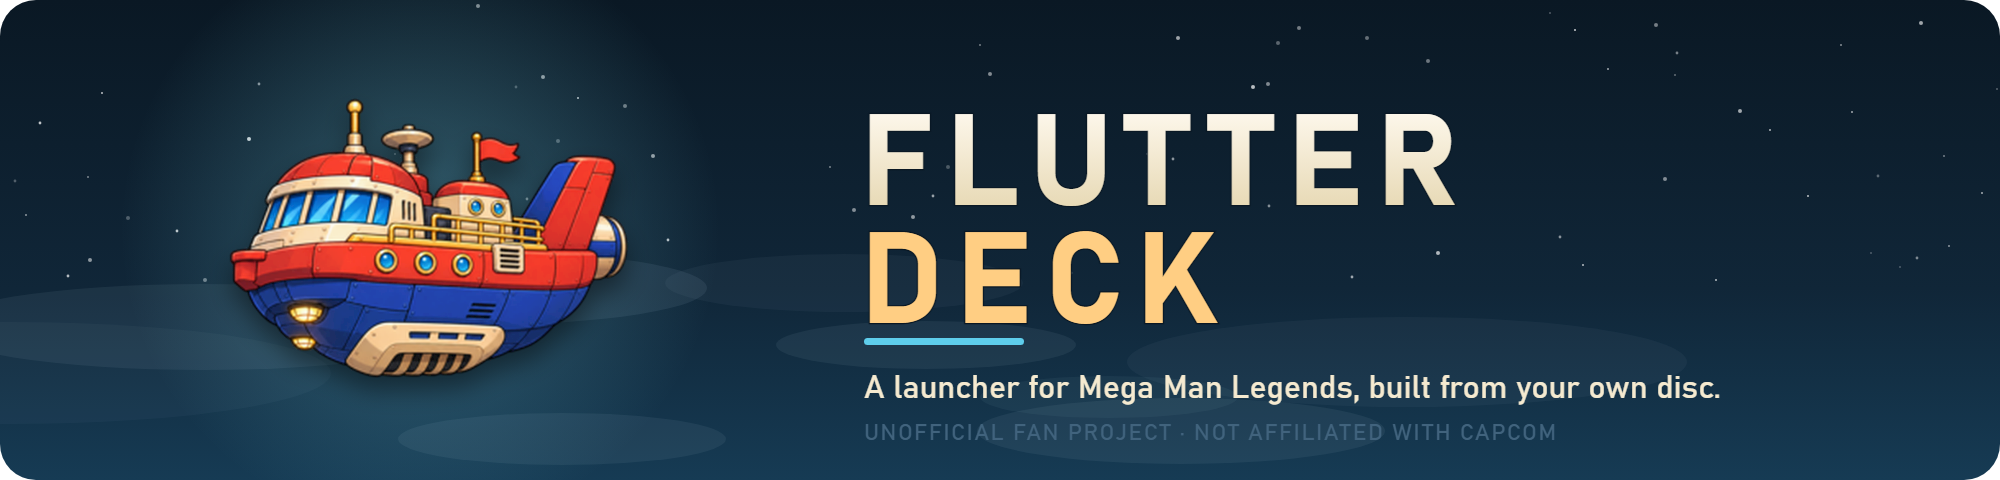
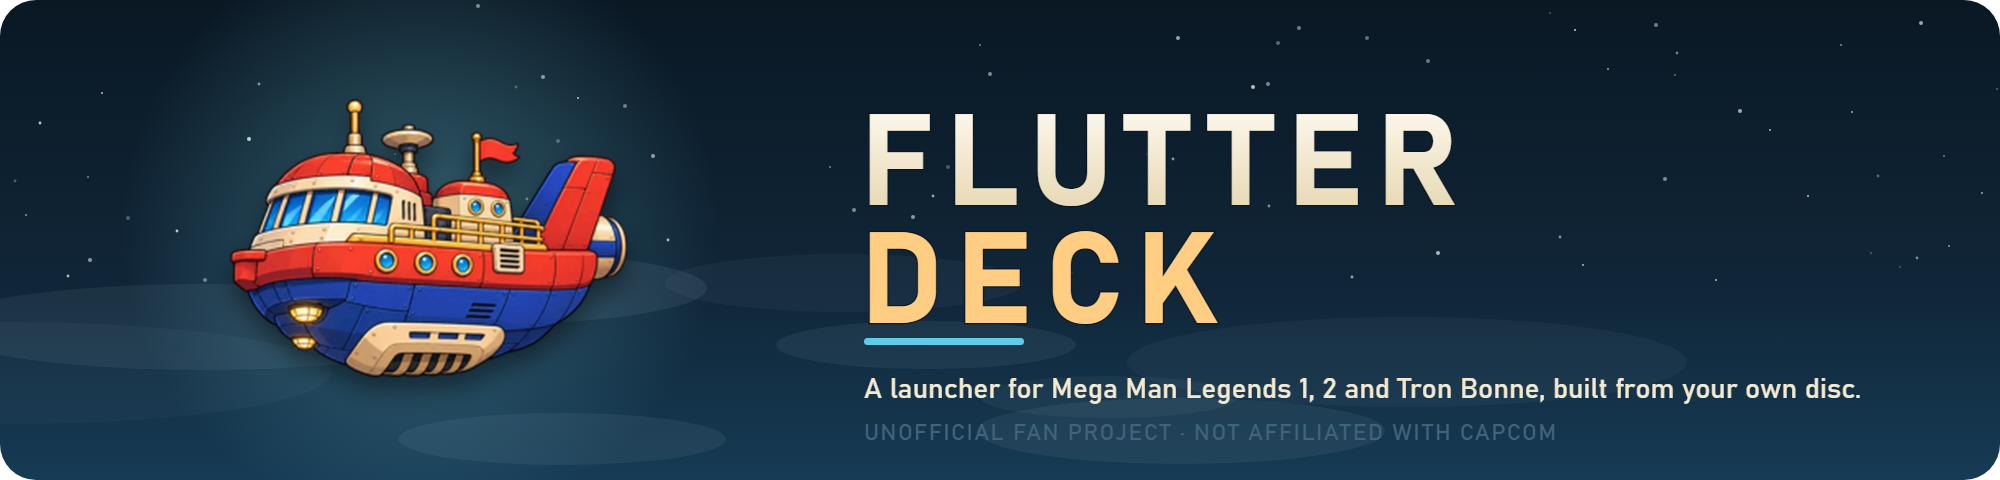
Name all three games, including The Misadventures of Tron Bonne, in the README, notices and pages; new header picture

Changed region(s): [[0.434, 0.7812, 0.93, 0.8438]]

diff --git a/README.md b/README.md
@@ -1,4 +1,4 @@
-<p align="center"><img src="docs/images/readme-header.png" alt="Flutter Deck: a launcher for Mega Man Legends, built from your own disc" width="100%"></p>
+<p align="center"><img src="docs/images/readme-header.png" alt="Flutter Deck: a launcher for Mega Man Legends 1, 2 and Tron Bonne, built from your own disc" width="100%"></p>
 
 <p align="center">
[1 lines of base64/hex data omitted]
@@ -9,7 +9,7 @@
   <img alt="No game files included" src="https://img.shields.io/badge/Game%20files-none%20included-brightgreen">
 </p>
 
-<h3 align="center">Launch Mega Man Legends from your own disc.<br>One program. Nothing else to install.</h3>
+<h3 align="center">Launch Mega Man Legends 1, 2 and Tron Bonne from your own disc.<br>One program. Nothing else to install.</h3>
 
 <p align="center">
   <a href="#what-it-does">What it does</a> ·
@@ -22,7 +22,7 @@
 
 ---
 
-Flutter Deck is a free, unofficial launcher for **Mega Man Legends** and **Mega Man Legends 2** on Windows. It lives on a ship deck. You point it at the disc image you already own, and it takes care of the rest: your library, your picture settings, your saves, your music and your friends.
+Flutter Deck is a free, unofficial launcher for **Mega Man Legends**, **Mega Man Legends 2** and **The Misadventures of Tron Bonne** on Windows. It lives on a ship deck. You point it at the disc image you already own, and it takes care of the rest: your library, your picture settings, your saves, your music and your friends.
 
 It never contains the game. Every player builds their own copy from their own disc, on their own PC.
 
@@ -30,7 +30,7 @@ It never contains the game. Every player builds their own copy from their own di
 
 | | Feature | What you get | State |
 | :-: | --- | --- | --- |
-| 🚀 | **Play** | Starts Mega Man Legends 1 and 2 from your own game program, after readiness checks. | ✅ Built and tested. Checked in play (Legends 1) |
+| 🚀 | **Play** | Starts Mega Man Legends 1, Mega Man Legends 2 and The Misadventures of Tron Bonne from your own game program, after readiness checks. | ✅ Built and tested. Checked in play (Legends 1). Games 2 and 3: features coming soon |
 | 📚 | **Library** | A grid of your games. Covers can come from your own disc code (off until you turn them on). | ✅ Built and tested |
 | 🛠 | **Build my game** | One button builds the game from your disc on your PC, with progress and plain error messages. | ✅ Built and tested |
 | 👥 | **Play with a friend** | Host or join with an invite code. Direct connection, no server, and help with your router. | ✅ Built and tested |
@@ -46,7 +46,7 @@ Every feature above is built and tested. Work continues on all of them.
 
 ## How it works
 
-1. **Point it at your disc.** Flutter Deck finds your Mega Man Legends disc image in a folder you choose. It checks the files and keeps only a reference to them.
+1. **Point it at your disc.** Flutter Deck finds the disc image of your game (Mega Man Legends, Mega Man Legends 2 or The Misadventures of Tron Bonne) in a folder you choose. It checks the files and keeps only a reference to them.
 2. **Build your game.** The launcher builds the game from your disc, on your PC. The finished game program stays on your PC and never goes into this repository or into a release.
 3. **Play.** Press Play. Change the picture, the keys and the volume while you play, or invite a friend.
 
@@ -78,6 +78,7 @@ powershell -NoProfile -File .\scripts\check-runtime.ps1
 | --- | --- |
 | Playing the game | [SPEC-play.md](docs/specs/SPEC-play.md) |
 | Building the game from your disc | [SPEC-builder.md](docs/specs/SPEC-builder.md) |
+| The Misadventures of Tron Bonne (game 3) | [SPEC-game3.md](docs/specs/SPEC-game3.md) |
 | Playing with a friend | [SPEC-multiplayer.md](docs/specs/SPEC-multiplayer.md) |
 | The in-game overlay | [SPEC-overlay.md](docs/specs/SPEC-overlay.md) |
 | Picture presets and DSI Prism | [SPEC-presets.md](docs/specs/SPEC-presets.md) |
@@ -89,7 +90,7 @@ powershell -NoProfile -File .\scripts\check-runtime.ps1
 
 ## Legal
 
-Flutter Deck is an **unofficial fan project**. It is not affiliated with, endorsed by or sponsored by Capcom. Mega Man, Mega Man Legends and Rockman DASH are trademarks or copyrights of Capcom Co., Ltd.
+Flutter Deck is an **unofficial fan project**. It is not affiliated with, endorsed by or sponsored by Capcom. Mega Man, Mega Man Legends, The Misadventures of Tron Bonne and Rockman DASH are trademarks or copyrights of Capcom Co., Ltd.
 
 It contains **no game files, no BIOS files, no game audio and no game artwork**, and it downloads none. Players use files they already own.
 

diff --git a/docs/CAPABILITIES.md b/docs/CAPABILITIES.md
@@ -6,7 +6,7 @@
 - Experimental: independent DWM/GDI scaler; no live game compatibility or performance claim.
 - Proposed: 82 catalog entries covering engine controls, graphics, saves, mods, gameplay and services. Selections are in-memory previews, not applied settings.
 - Two catalog entries route to real Setup and Music instead of fake selectors.
-- Implemented, not yet started for real from the launcher: Play for Mega Man Legends 1 starts the user's own native game program per the game side's contract, with window size, sound-off and a launcher-owned key map and memory card (SPEC-play.md). Tested with a stand-in program only. Mega Man Legends 2 has no native program.
+- Implemented: Play for Mega Man Legends 1, Mega Man Legends 2 and The Misadventures of Tron Bonne starts the user's own native game program per the game side's contract, with window size, sound-off and a launcher-owned key map and memory card (SPEC-play.md, SPEC-game3.md). Legends 1 has been played from the launcher; Legends 2 and Tron Bonne are labelled features coming soon.
 - Game identity/region/revision detection, controller remapping, volume, filters, full screen and game updates are not implemented/verified.
 
 Preflight checks only existing local references and bounded metadata. It does not hash payloads, repair files or prove a native boot. User files and setup data are not included in packages.

diff --git a/NOTICE.md b/NOTICE.md
@@ -1,7 +1,7 @@
 # Notices
 
 ## Unofficial fan project
-Flutter Deck is an unofficial, free fan-made launcher. It is not affiliated with, endorsed by or sponsored by Capcom. Mega Man, Mega Man Legends, Rockman DASH and related names, characters and designs are trademarks or copyrights of Capcom Co., Ltd. The MIT licence in LICENSE grants no rights to any of them.
+Flutter Deck is an unofficial, free fan-made launcher. It is not affiliated with, endorsed by or sponsored by Capcom. Mega Man, Mega Man Legends, Mega Man Legends 2, The Misadventures of Tron Bonne, Rockman DASH and related names, characters and designs are trademarks or copyrights of Capcom Co., Ltd. The MIT licence in LICENSE grants no rights to any of them.
 
 Flutter Deck contains no game files, BIOS files, game audio or game artwork, and does not download any. Users point it at files they already own.
 

diff --git a/docs/specs/SPEC-game3.md b/docs/specs/SPEC-game3.md
@@ -1,6 +1,6 @@
 # Game 3: The Misadventures of Tron Bonne
 
-Status, 2026-11-19: in the launcher source. The developer has not played this game yet, and no Play was pressed for it.
+Status, 2026-11-19: in the launcher source. In the launcher it is labelled features coming soon: saving, the sound and the opening movie are not yet proven.
 
 ## Background
 
